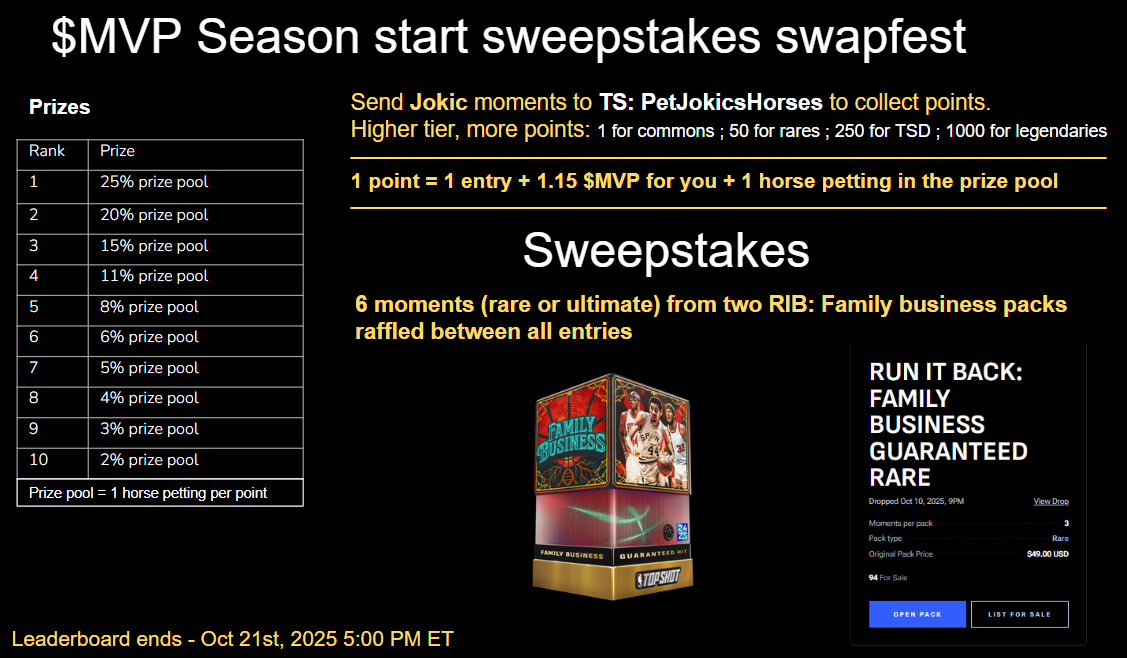
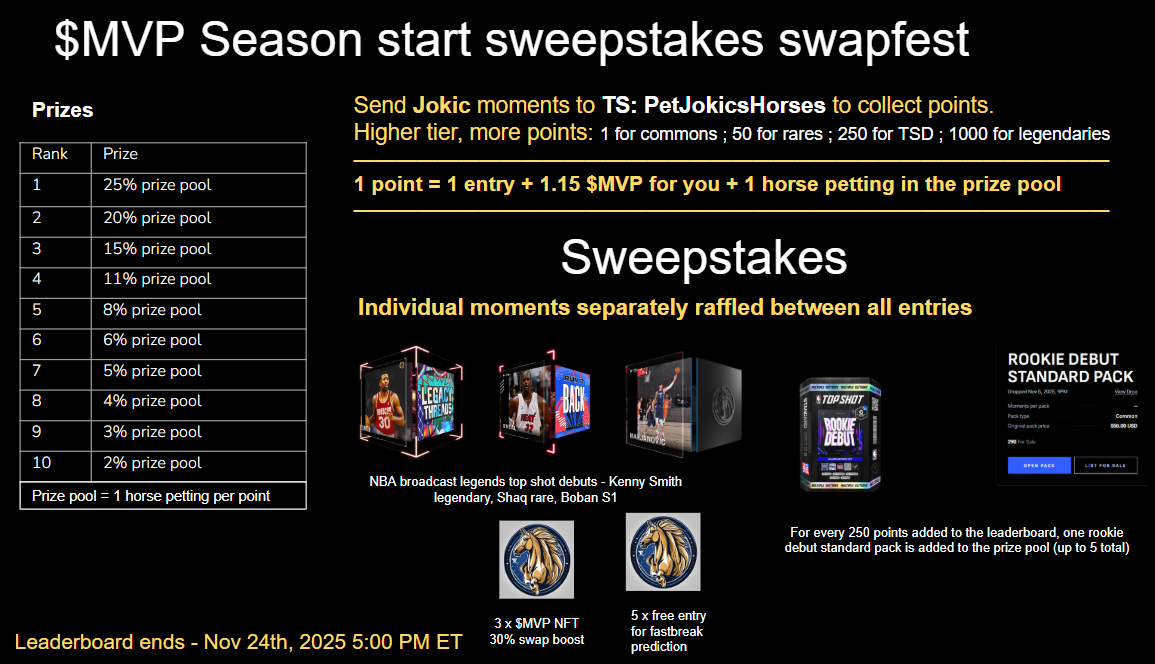
New swapfest

diff --git a/react-wallet/src/pages/Swapfest.jsx b/react-wallet/src/pages/Swapfest.jsx
@@ -37,7 +37,7 @@ export default function Swapfest() {
     <div className="container">
       <div className="card shadow mb-4">
         <div className="card-body">
-          <h2 className="mb-4 text-center">🏀 $MVP Season Start Swap Fest Ending Oct 21st 🏆</h2>
+          <h2 className="mb-4 text-center">🏀 $MVP Season Start Swap Fest Ending Nov 24th 🏆</h2>
 
           <div className="text-center mb-4">
             <img

diff --git a/jokicguess.py b/jokicguess.py
@@ -14,7 +14,10 @@ import math
 from flask_cors import CORS
 from flask import send_from_directory, request
 from concurrent.futures import ThreadPoolExecutor, as_completed
-
+SWAPFEST_START_TIME = '2025-10-23 21:00:00'
+SWAPFEST_END_TIME   = '2025-11-24 00:00:00'
+SWAPFEST_BOOST1_CUTOFF = '2025-10-17 00:00:00'  # 1.4x before this
+SWAPFEST_BOOST2_CUTOFF = '2025-10-21 00:00:00'  # 1.2x before this 
 
 # Run mock on port 8000 for Azure
 app = Flask(__name__)
@@ -46,12 +49,12 @@ def serve_react(path):
 @app.route("/api/leaderboard")
 def api_leaderboard():
     # Define event period in UTC
-    start_time = '2025-09-25 21:00:00'
-    end_time = '2025-10-22 00:00:00'
+    start_time = SWAPFEST_START_TIME
+    end_time = SWAPFEST_END_TIME
 
     # Multiplier cutoffs (UTC)
-    boost1_cutoff = '2025-09-05 00:00:00'  # 1.4x before this
-    boost2_cutoff = '2025-09-16 00:00:00'  # 1.2x before this (and on/after Sept 4)
+    boost1_cutoff = SWAPFEST_BOOST1_CUTOFF
+    boost2_cutoff = SWAPFEST_BOOST2_CUTOFF
 
     db = get_db()
     cursor = db.cursor()
@@ -1493,12 +1496,12 @@ async def list_petting_rewards(interaction: discord.Interaction):
 )
 async def gift_leaderboard(interaction: discord.Interaction):
     # Define the event window in UTC
-    start_time = '2025-09-25 21:00:00'
-    end_time   = '2025-10-22 00:00:00'
+    start_time = SWAPFEST_START_TIME
+    end_time   = SWAPFEST_END_TIME
 
     # Multiplier cutoffs (UTC)
-    boost1_cutoff = '2025-09-05 00:00:00'  # 1.4x before this
-    boost2_cutoff = '2025-09-16 00:00:00'  # 1.2x before this (and on/after Sept 4)
+    boost1_cutoff = SWAPFEST_BOOST1_CUTOFF
+    boost2_cutoff = SWAPFEST_BOOST2_CUTOFF
 
     # Query with date-based multipliers:
     # - < Sept 04 => 1.4x
